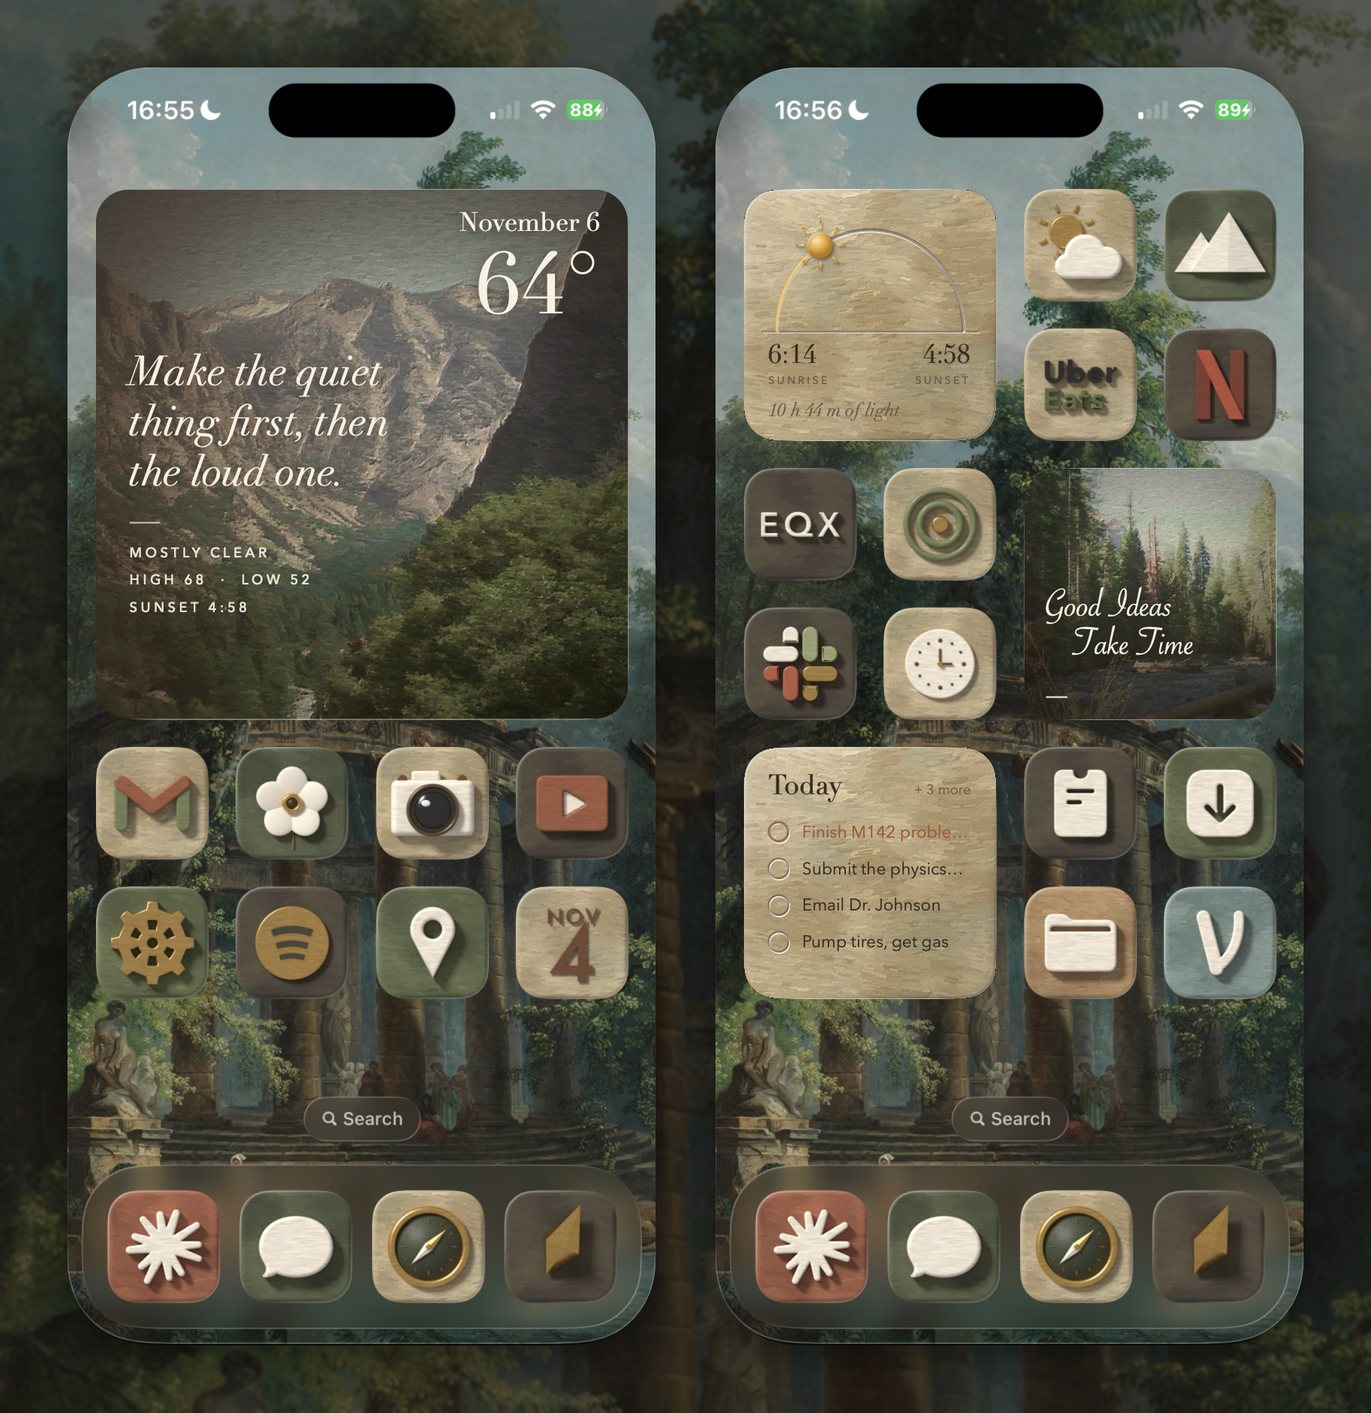
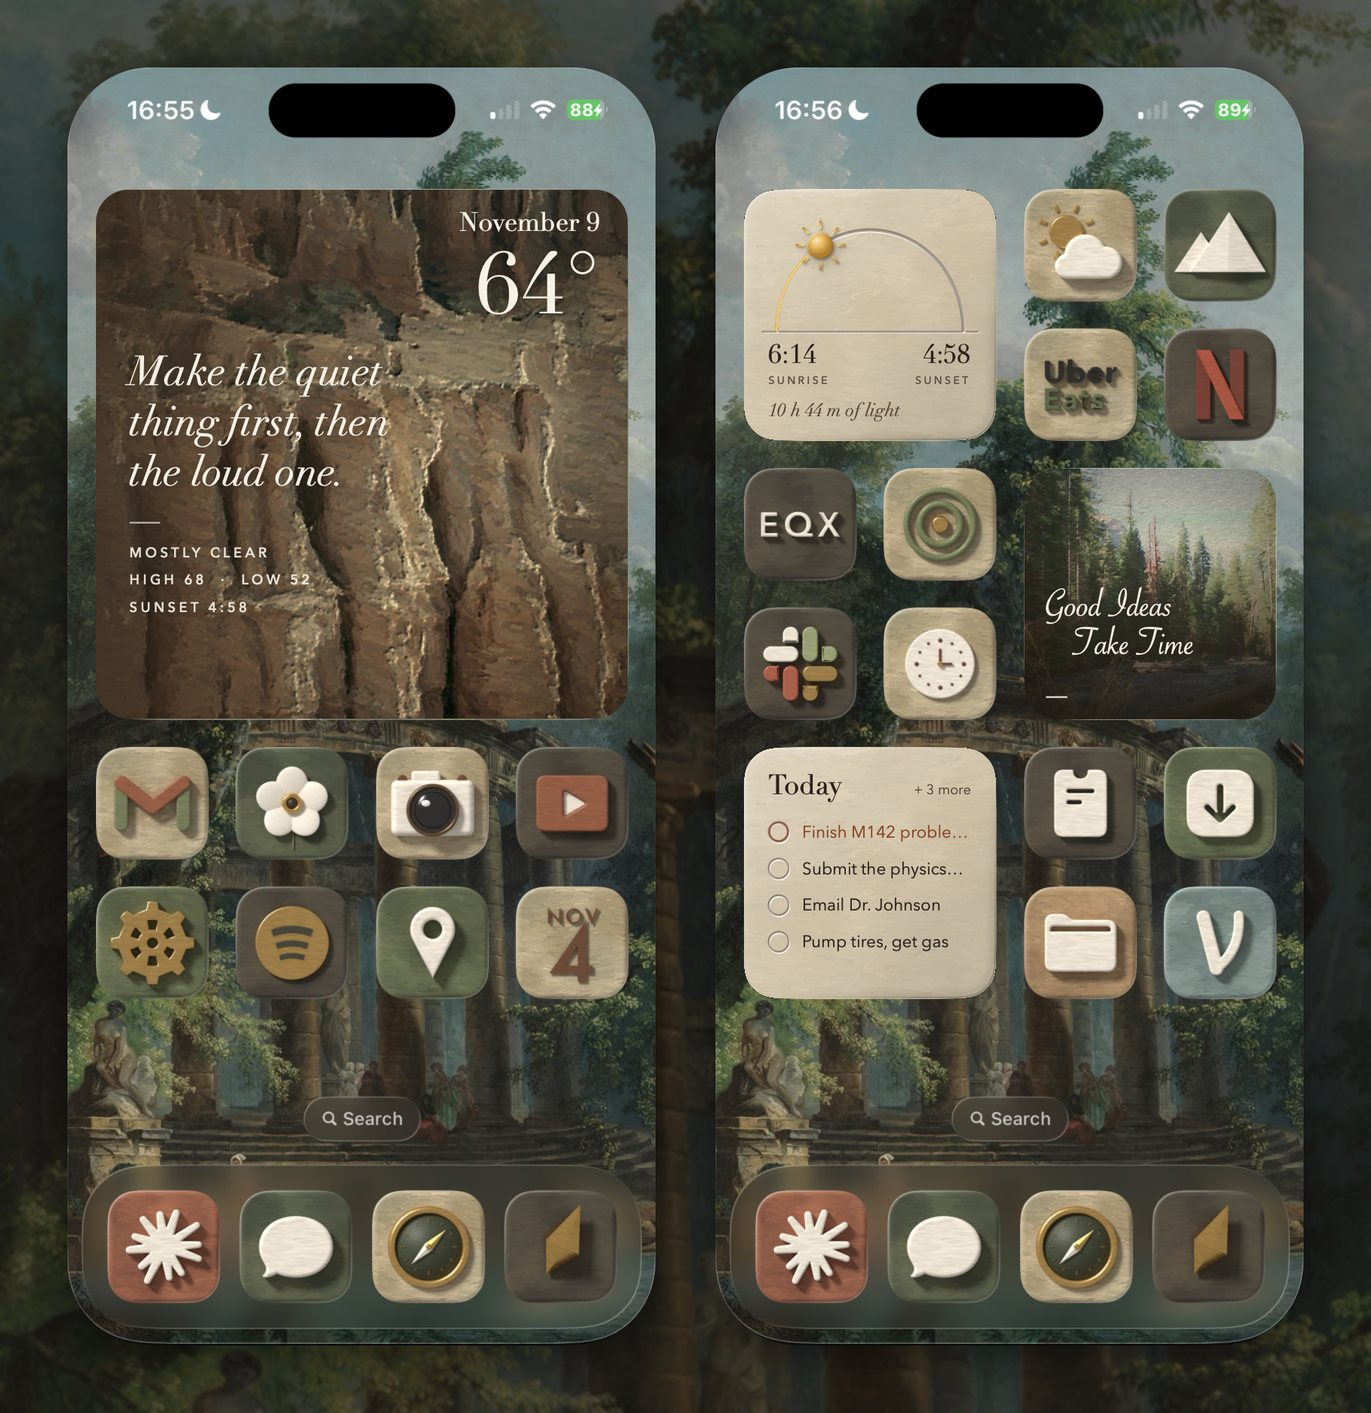
Quiet: subtler paint, darker text, the widgets lighter against the painting
The painted limestone made small text hard to read. RococoTheme gathers the
surface into one place (stone colour, how much brushwork shows, inks, edge,
the darkening behind words on photographs) and Quiet, the chosen option, lays
the brushwork at 28 percent over a light limestone with darker inks: text
contrast goes from 5.4, 2.7 and 2.2 to 10.3, 5.9 and 4.7 to 1. The compared
options (Current, Carved, Ivory) stay available to MockLab's THEMES=1 and
scripts/compare_themes.py. README pictures re-rendered; the install script now
builds for any iPhone and installs with devicectl.

Changed region(s): [[0.0613, 0.1246, 0.4595, 0.5294], [0.5208, 0.5294, 0.7352, 0.7162], [0.5208, 0.1246, 0.7352, 0.3114]]

diff --git a/Shared/RococoStyle.swift b/Shared/RococoStyle.swift
@@ -10,15 +10,49 @@ import SwiftUI
 //
 // Every layout is fixed at its iPhone 17 size (164, 348 x 164, 348 x 365) and RococoFrame scales it to the widget.
 
+/// The look's adjustable surface (2026-11-08 art redirect: "the effect needs to be a lot more subtle" so the words read,
+/// and the widgets need "a little bit more that makes them stand out"). The widgets draw with `current`; MockLab
+/// renders the others side by side to choose from.
+struct RococoTheme {
+    enum Edge { case soft, carved, crisp }
+
+    var name: String
+    /// The stone's flat colour, under the brushwork.
+    var stone: Color
+    /// How much of the painted brushwork shows over it: 1 is the original oil-painted limestone.
+    var texture: Double
+    var ink: Color
+    var inkSoft: Color
+    var terracotta: Color
+    /// soft: the original lit lip; carved: a groove cut round the inside of every widget; crisp: a dark outline
+    /// with a lit inner edge.
+    var edge: Edge
+    /// How strongly a photograph is darkened behind its words: 1 is the original.
+    var scrim: Double
+
+    static let original = RococoTheme(name: "Current", stone: Color(hex: 0xB5A483), texture: 1, ink: Color(hex: 0x3A2D23),
+                                      inkSoft: Color(hex: 0x6B5B4C), terracotta: Color(hex: 0x9C5B3D), edge: .soft, scrim: 1)
+    static let quiet = RococoTheme(name: "Quiet", stone: Color(hex: 0xDCD1BB), texture: 0.28, ink: Color(hex: 0x2B221B),
+                                   inkSoft: Color(hex: 0x56473A), terracotta: Color(hex: 0x8A4429), edge: .soft, scrim: 1.3)
+    static let carved = RococoTheme(name: "Carved", stone: Color(hex: 0xDCD1BB), texture: 0.28, ink: Color(hex: 0x2B221B),
+                                    inkSoft: Color(hex: 0x56473A), terracotta: Color(hex: 0x8A4429), edge: .carved, scrim: 1.3)
+    static let ivory = RococoTheme(name: "Ivory", stone: Color(hex: 0xEDE6D7), texture: 0.16, ink: Color(hex: 0x261E18),
+                                   inkSoft: Color(hex: 0x53453A), terracotta: Color(hex: 0x86402A), edge: .crisp, scrim: 1.4)
+    static let options = [original, quiet, carved, ivory]
+
+    /// Quiet, chosen 2026-11-08: lighter stone, the brushwork at 28 percent, darker inks, photos darker behind words.
+    static var current = quiet
+}
+
 enum RococoInk {
-    static let ink = Color(hex: 0x3A2D23)
-    static let inkSoft = Color(hex: 0x6B5B4C)
-    static let inkFaint = Color(hex: 0x6E604E)
+    static var ink: Color { RococoTheme.current.ink }
+    static var inkSoft: Color { RococoTheme.current.inkSoft }
+    static var inkFaint: Color { RococoTheme.current.inkSoft }
     static let cream = Color(hex: 0xF7F0E4)
-    static let terracotta = Color(hex: 0x9C5B3D)
+    static var terracotta: Color { RococoTheme.current.terracotta }
     static let shadow = Color(hex: 0x2B1F15)
-    /// The limestone's middle value: behind the stone while it loads, and round the edges on other phone sizes.
-    static let stone = Color(hex: 0xB5A483)
+    /// The stone's flat colour: under the brushwork, and round the edges on other phone sizes.
+    static var stone: Color { RococoTheme.current.stone }
     /// The dark of the paintings' corners.
     static let umber = Color(hex: 0x1C1912)
 }
@@ -43,10 +77,40 @@ struct RococoFrame<Content: View>: View {
             let scale = max(geo.size.width / design.width, geo.size.height / design.height)
             content
                 .frame(width: design.width, height: design.height)
+                .overlay(RococoEdge(theme: RococoTheme.current))
                 .scaleEffect(scale)
                 .frame(width: geo.size.width, height: geo.size.height)
         }
         .clipped()
+    }
+}
+
+/// The edge every widget gets from the theme, over stone and photograph alike (the soft lip is the slab's own).
+struct RococoEdge: View {
+    var theme: RococoTheme
+
+    var body: some View {
+        let outer = RoundedRectangle(cornerRadius: 22, style: .continuous)
+        switch theme.edge {
+        case .soft:
+            EmptyView()
+        case .carved:
+            // A groove cut 7 points in, following the corners: dark at the top left, lit at the bottom right.
+            let groove = RoundedRectangle(cornerRadius: 16, style: .continuous).inset(by: 7)
+            ZStack {
+                groove.stroke(Color.white.opacity(0.55), lineWidth: 1).offset(x: 0.5, y: 0.8)
+                groove.stroke(RococoInk.shadow.opacity(0.42), lineWidth: 1.1)
+                outer.strokeBorder(RococoInk.shadow.opacity(0.28), lineWidth: 1.2)
+            }
+            .allowsHitTesting(false)
+        case .crisp:
+            // A dark outline that holds the widget against the painting, with a lit edge just inside it.
+            ZStack {
+                outer.strokeBorder(RococoInk.shadow.opacity(0.6), lineWidth: 2.2)
+                outer.inset(by: 2.2).strokeBorder(Color.white.opacity(0.5), lineWidth: 1)
+            }
+            .allowsHitTesting(false)
+        }
     }
 }
 
@@ -62,6 +126,7 @@ struct RococoSlab: View {
         ZStack {
             RococoInk.stone
             Image("RococoLimestone").resizable().interpolation(.high).rococoFullColor().scaledToFill()
+                .opacity(RococoTheme.current.texture)
             LinearGradient(colors: [.white.opacity(0.16), .white.opacity(0), .black.opacity(0.1)],
                            startPoint: .topLeading, endPoint: .bottomTrailing)
             shape.strokeBorder(LinearGradient(stops: [.init(color: .white.opacity(0.35), location: 0),

diff --git a/MockLab/Sources/RSmalls/Readme.swift b/MockLab/Sources/RSmalls/Readme.swift
@@ -87,6 +87,23 @@ enum ReadmeRenders {
         }
     }
 
+    /// The home screen's widgets in each RococoTheme option, to compare (THEMES=1; 2026-11-08 art redirect).
+    @MainActor static func renderThemes(to root: URL) {
+        let keep = RococoTheme.current
+        for theme in RococoTheme.options {
+            RococoTheme.current = theme
+            let dir = root.appendingPathComponent(theme.name.lowercased(), isDirectory: true)
+            try? FileManager.default.createDirectory(at: dir, withIntermediateDirectories: true)
+            for s in phone() {
+                MockRunner.write(s.view.frame(width: s.size.width, height: s.size.height), scale: 2, to: dir.appendingPathComponent("\(s.name).png"))
+            }
+            let large = BaroqueSize.large.designSize
+            MockRunner.write(RococoTodayView(snapshot: briefDay, size: .large).frame(width: large.width, height: large.height),
+                             scale: 2, to: dir.appendingPathComponent("today-large.png"))
+        }
+        RococoTheme.current = keep
+    }
+
     @MainActor static func render(to dir: URL) {
         try? FileManager.default.createDirectory(at: dir, withIntermediateDirectories: true)
         for s in gallery() {

diff --git a/Shared/RococoDay.swift b/Shared/RococoDay.swift
@@ -165,9 +165,10 @@ struct RococoHero: View {
         ZStack(alignment: .topLeading) {
             RococoPicture(name: RococoPhotos.large(at: snap.date), night: night)
             RococoCorners()
-            LinearGradient(colors: [Color(hex: 0x3A2C1F).opacity(0.55), Color(hex: 0x3A2C1F).opacity(0.22), .clear],
+            let k = RococoTheme.current.scrim
+            LinearGradient(colors: [Color(hex: 0x3A2C1F).opacity(min(0.9, 0.55 * k)), Color(hex: 0x3A2C1F).opacity(min(0.6, 0.22 * k)), .clear],
                            startPoint: .leading, endPoint: UnitPoint(x: 0.7, y: 0.5))
-            LinearGradient(colors: [Color(hex: 0x3A2C1F).opacity(0.3), .clear], startPoint: .top, endPoint: UnitPoint(x: 0.5, y: 0.3))
+            LinearGradient(colors: [Color(hex: 0x3A2C1F).opacity(min(0.6, 0.3 * k)), .clear], startPoint: .top, endPoint: UnitPoint(x: 0.5, y: 0.3))
             VStack(alignment: .trailing, spacing: 0) {
                 Text("\(RococoWords.month(snap.date)) \(RococoWords.day(snap.date))")
                     .font(RococoType.serif(17))

diff --git a/Shared/RococoQuote.swift b/Shared/RococoQuote.swift
@@ -45,10 +45,10 @@ struct RococoQuoteView: View {
     private var ground: some View {
         Group {
             if size == .medium {
-                LinearGradient(colors: [.clear, RococoInk.umber.opacity(0.72)], startPoint: UnitPoint(x: 0.4, y: 0.5),
+                LinearGradient(colors: [.clear, RococoInk.umber.opacity(min(0.92, 0.72 * RococoTheme.current.scrim))], startPoint: UnitPoint(x: 0.4, y: 0.5),
                                endPoint: .trailing)
             } else {
-                LinearGradient(colors: [.clear, RococoInk.umber.opacity(size == .small ? 0.7 : 0.62)],
+                LinearGradient(colors: [.clear, RococoInk.umber.opacity(min(0.92, (size == .small ? 0.7 : 0.62) * RococoTheme.current.scrim))],
                                startPoint: UnitPoint(x: 0.5, y: size == .small ? 0.3 : 0.4), endPoint: .bottom)
             }
         }

diff --git a/MockLab/Sources/RSmalls/RSmalls.swift b/MockLab/Sources/RSmalls/RSmalls.swift
@@ -9,6 +9,11 @@ import AppKit
 struct Main {
     @MainActor static func main() {
         PaintAssets.install()
+        if ProcessInfo.processInfo.environment["THEMES"] == "1" {
+            ReadmeRenders.renderThemes(to: Mock.root.appendingPathComponent("out/themes", isDirectory: true))
+            print("Rendered the theme options to out/themes")
+            return
+        }
         if ProcessInfo.processInfo.environment["HEROES"] == "1" {
             ReadmeRenders.renderHeroChecks(to: Mock.root.appendingPathComponent("out/heroes", isDirectory: true))
             print("Rendered the hero checks to out/heroes")

diff --git a/scripts/compare_themes.py b/scripts/compare_themes.py
@@ -1,0 +1,45 @@
+#!/usr/bin/env python3
+"""A side-by-side of the RococoTheme options on the author's home screen, page two (the small Day, Quote and Today
+widgets on The Bathing Pool), and each option's large Today widget, for choosing a look.
+
+Inputs: MockLab/out/themes/<option>/ (cd MockLab && THEMES=1 swift run --scratch-path .build-smalls RSmalls) and a
+screenshot of page two (PAGE2, from scripts/mirror_setup.py). Writes MockLab/out/themes/compare.jpg.
+"""
+import os
+import sys
+
+sys.dont_write_bytecode = True
+sys.path.insert(0, os.path.dirname(__file__))
+import readme_images as ri
+from PIL import Image, ImageDraw
+
+THEMES = os.path.join(ri.ROOT, "MockLab", "out", "themes")
+ORDER = ["current", "quiet", "carved", "ivory"]
+NAMES = {"current": "Current", "quiet": "Quiet", "carved": "Carved", "ivory": "Ivory"}
+
+
+def main():
+    page2 = os.environ["PAGE2"]
+    cols = []
+    for option in ORDER:
+        ri.RENDERS = os.path.join(THEMES, option)
+        phone = ri.rounded(ri.page(page2, ri.PAGE2_WIDGETS), 110)
+        today = ri.rounded(Image.open(os.path.join(THEMES, option, "today-large.png")).convert("RGB"), 44)
+        cols.append((option, phone, today))
+    pad, gap, label = 60, 50, 70
+    w = 784
+    today_h = round(cols[0][2].height * w / cols[0][2].width)
+    canvas = ri.ground((pad * 2 + len(cols) * w + (len(cols) - 1) * gap, pad * 2 + label + 1704 + gap + today_h), darken=0.6)
+    d = ImageDraw.Draw(canvas)
+    for i, (option, phone, today) in enumerate(cols):
+        x = pad + i * (w + gap)
+        d.text((x + w / 2, pad + 26), NAMES[option], font=ri.font(48), fill=ri.INK, anchor="mm")
+        ri.shadow_paste(canvas, phone, (x, pad + label))
+        ri.shadow_paste(canvas, today.resize((w, today_h), Image.LANCZOS), (x, pad + label + 1704 + gap))
+    out = os.path.join(THEMES, "compare.jpg")
+    canvas.convert("RGB").resize((canvas.width // 2, canvas.height // 2), Image.LANCZOS).save(out, quality=86)
+    print(out)
+
+
+if __name__ == "__main__":
+    main()

diff --git a/CLAUDE.md b/CLAUDE.md
@@ -22,7 +22,8 @@ Painted, storybook-style iOS home screen widgets fed by an Obsidian vault on Git
 - The app was called Terra until 2026-11-05, when the user asked to "rename everything so its baroque as the name". The project, targets, folders, types, widget kinds (`BaroqueDay`, `BaroqueToday`, `BaroqueQuote`, `BaroqueBattery`), storage keys and docs say Baroque. The bundle IDs (`com.ryanfernandez.terra`, `.widgets`, `.uitests`), the App Group `group.com.ryanfernandez.terra` and the Keychain service keep `terra`, because the original brief says not to change bundle identifiers unless a build forces it. This folder is still `~/claudeProjects/Terra`. The repo is the private `RyeBreadFernandez/baroque`.
 - Never commit a GitHub token anywhere. It is entered in the app and stored in the Keychain.
 - Photographs take turns (`RococoPhotos` in RococoStyle: every three hours on the local clock). The large Day widget's list (`underWords`) holds only landscapes with no one where the quote sits; check any new one with MockLab `HEROES=1 swift run --scratch-path .build-smalls RSmalls` (every photo by day and night). Photos of people go only on the Photograph widget. New photos: `photos.py`, then `PHOTOS` in `scripts/export_rococo_textures.py`.
-- Keep the rococo look: painted limestone laid in with oil strokes, carved lines and gold reliefs; the user's own outdoor photographs repainted in the colours of The Bathing Pool and The Swing (`MockLab/Textures/rococo/photos.py`, run locally: the photos stay on this Mac); Didot, Avenir Next capitals, Savoye LET only for short lines. No weekday name anywhere, no gold frames. Words on a picture sit on its darkened side; check them at night (pictures are glazed darker) and on long quotes (they shrink, then truncate).
+- The widgets' surface is `RococoTheme.current` in RococoStyle: **Quiet** since 2026-11-08, after the user's art redirect ("the effect needs to be a lot more subtle" so the words read; "a little bit more that makes them stand out"). Quiet is a light limestone (#DCD1BB) with the painted brushwork at 28 percent, darker inks (every text colour 4.5:1 or better on the stone), and photographs darkened 1.3 times more behind their words. The other options (Current, Carved with a groove round the inside, Ivory with a crisp outline) stay in `RococoTheme.options`; compare with MockLab `THEMES=1 swift run --scratch-path .build-smalls RSmalls` and `scripts/compare_themes.py`. Keep text contrast at 4.5:1 or better on the stone.
+- Keep the rococo look: limestone with quiet oil brushwork, carved lines and gold reliefs; the user's own outdoor photographs repainted in the colours of The Bathing Pool and The Swing (`MockLab/Textures/rococo/photos.py`, run locally: the photos stay on this Mac); Didot, Avenir Next capitals, Savoye LET only for short lines. No weekday name anywhere, no gold frames. Words on a picture sit on its darkened side; check them at night (pictures are glazed darker) and on long quotes (they shrink, then truncate).
 - If the Old Master Cover look comes back, keep it: sepia oils in umber, taupe and cream with one peach accent (`CoverInk`), paintings as value studies glazed at run time for the time of day and weather (never flat fills or plain gradients), varnish and craquelure, the giant gilt date numeral (or quote mark) standing beside the Matterhorn's summit with its foot behind the mountain, Baskerville and Avenir Next type. Text sits on the painting's dark ground; anything set on the sky uses `.coverOnSky()`/`.coverOnPaint()`. Check contrast on the lightest paint. No weekday name anywhere.
 - Keep the Matterhorn in the shipped Cover paintings. (The user picked the Sun Arc weather mock on 2026-11-04 and said the scenery "doesnt just have to be matterhorn". Its other landscapes live in `MockLab/Textures/weather-sun-arc/scenes/<scene>/`, each rendered with `SA_SCENE=<scene>`, and follow the same rule: a real place in its classic view, its silhouette traced from a credited, freely licensed photograph, at true proportions. They have no gold frames, which the user dislikes.) In Cover, every painting's mountain is its classic Riffelsee silhouette from `MockLab/Textures/old-master-cover/matterhorn.json` (traced from Wikimedia Commons `File:Matterhorn_Riffelsee_2005-06-11.jpg`; `make.py --trace <skyline.json>` rebuilds it), at its true proportions: scale it uniformly, never stretch or exaggerate it, and never invent a crest. Frame it (`FRAMES` in `make.py`) so the hooked summit, the steep left face and the shoulder on the right stay clear of the glyph and the text; the glyph's foot may sit behind the flank or shoulder. Light it as in the photograph: the left face in shadow, the east and north faces lit with snow, a crisp crest. Layouts are fixed at the iPhone 17 sizes and each painting is composed round its text and glyph (`HEROES` in `make.py` must match `OCCanvas.hero` in the mock and `CoverCanvas.hero` in `Shared/`). If you move text or the glyph, repaint with `make.py`, run `scripts/export_cover_textures.py`, and check the `-renderWidgets` output (including the `sky-*` weather states) and MockLab `Current` against `out/old-master-cover/`.
 - Widgets must render with cached data when offline and show a readable error line when a fetch fails.

diff --git a/docs/ARCHITECTURE.md b/docs/ARCHITECTURE.md
@@ -102,6 +102,8 @@ So a widget that can't reach the network still draws, and says why it's stale.
 
 **Layout.** Every rococo view is laid out once at its iPhone 17 size: small 164, medium 348 × 164, large 348 × 365 points. `RococoFrame` scales that layout to fill whatever size the phone gives the widget, with every layout keeping 14 points clear of the edges for the crop. The paintings are composed around the words, and words on a picture always sit on its darkened side, which is darker again at night.
 
+**Theme.** Colours, how much brushwork shows on the stone, the edge and the darkening behind words on photographs come from `RococoTheme.current` (Quiet). `RococoInk` reads its colours from it, and `RococoFrame` adds the theme's edge.
+
 **Images.** WidgetKit refuses to draw a widget whose images add up to too many pixels. The widget images are JPEGs cut to their frame at 2 pixels per point, so the largest is 696 × 730. `widgetAccentedRenderingMode(.fullColor)` keeps the paintings in colour when the home screen is set to clear or tinted.
 
 ## The app

diff --git a/docs/ART.md b/docs/ART.md
@@ -28,6 +28,10 @@ It makes two kinds of image:
 
 `MockLab/Textures/rococo/make.py` uses the same painter for the limestone the widgets are cut from. It's in *The Bathing Pool*'s own colours: the weathered stone of its pedestals and steps, the greens of the grove, the teal of the sky, the terracotta of the flower pots. It also cuts the painting to the phone's screen for the wallpaper.
 
+### How much paint shows
+
+The widgets lay the painted limestone at 28 percent over a light stone colour (`RococoTheme.quiet`). At full strength the brushwork made small text hard to read, so the texture is kept as a quiet surface, and every text colour on it meets 4.5:1 contrast. `RococoTheme` holds the other options that were compared, and `scripts/compare_themes.py` lays them side by side on a home screen.
+
 ## Repainting the photographs
 
 `MockLab/Textures/rococo/photos.py` repaints the author's landscape photographs as Robert or Fragonard might have:
